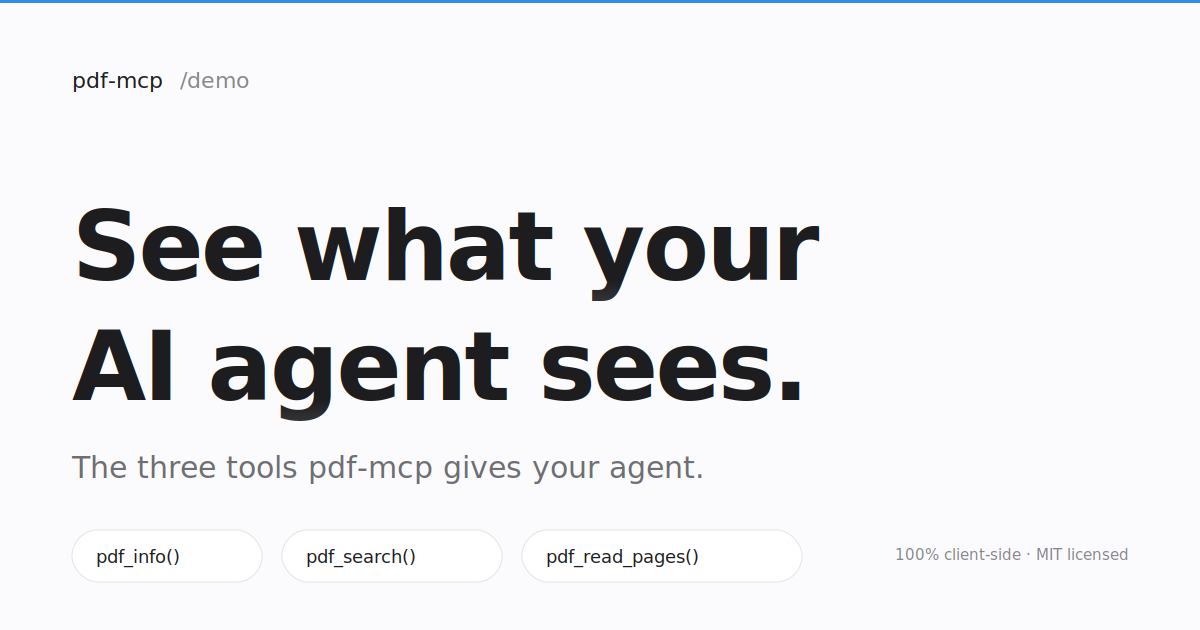
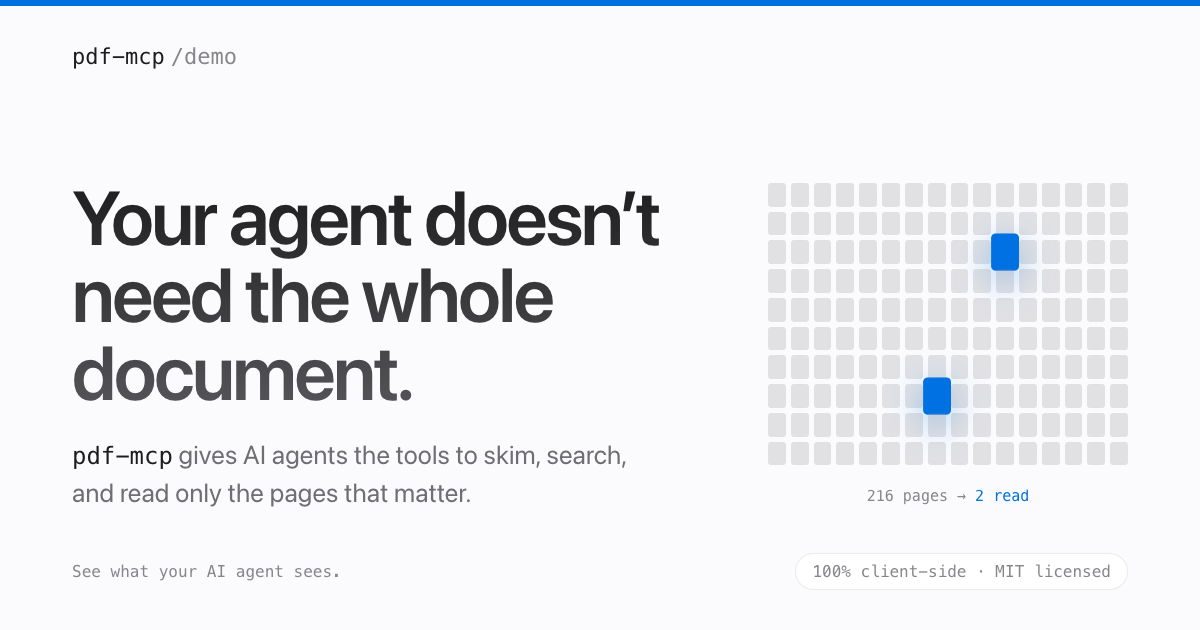
fix(demo): refresh OG share card + titles for new hero; fix mobile grid blow-up
- Regenerate og-image.png and og/twitter titles to match the new
  'Your agent doesn't need the whole document' hero (was the old
  'See what your AI agent sees' / three-tools framing).
- Keep the page grid at 24 compact columns on mobile instead of
  ballooning to 12 oversized columns (~18 rows); tighten gap, read
  actual column count for the sweep stagger, reduce doc-card padding,
  and stack the ask bar so nothing overflows down to 320px.

diff --git a/pages/index.html b/pages/index.html
@@ -12,7 +12,7 @@
 
 <!-- Open Graph (LinkedIn, Facebook, Slack) -->
 <meta property="og:type" content="website" />
-<meta property="og:title" content="pdf-mcp · See what your AI agent sees" />
+<meta property="og:title" content="pdf-mcp · Your agent doesn’t need the whole document" />
 <meta property="og:description" content="Drop in a PDF and watch an AI agent read only the pages that matter. Try it in your browser — no install required, 100% client-side." />
 <meta property="og:url" content="https://pdf-mcp.jztan.com/" />
 <meta property="og:image" content="https://pdf-mcp.jztan.com/og-image.png" />
@@ -22,7 +22,7 @@
 
 <!-- Twitter / X card -->
 <meta name="twitter:card" content="summary_large_image" />
-<meta name="twitter:title" content="pdf-mcp · See what your AI agent sees" />
+<meta name="twitter:title" content="pdf-mcp · Your agent doesn’t need the whole document" />
 <meta name="twitter:description" content="Watch an AI agent read only the pages that matter, in your browser. No install." />
 <meta name="twitter:image" content="https://pdf-mcp.jztan.com/og-image.png" />
 
@@ -181,7 +181,10 @@
   }
 
   .hero-grid { display: grid; grid-template-columns: repeat(24, 1fr); gap: 5px; max-width: 580px; margin: 40px auto 0; }
-  @media (max-width: 640px) { .hero-grid, .lgrid { grid-template-columns: repeat(12, 1fr); } }
+  /* Keep the grid compact on small screens: same 24 columns (so it stays ~9
+     rows, not ~18), just a tighter gap. Fewer columns would balloon the cell
+     size and make the grid dominate the viewport. Cells shrink via 1fr. */
+  @media (max-width: 640px) { .hero-grid, .lgrid { gap: 3px; } }
   .pgcell { aspect-ratio: 3/4; border-radius: 2.5px; background: var(--text-tertiary); opacity: 0.5;
             transition: opacity 0.5s ease, background 0.5s ease, transform 0.5s ease, box-shadow 0.5s ease; }
   .pgcell.dim { opacity: 0.13; }
@@ -572,8 +575,9 @@
     .url-row { flex-direction: column; }
     .btn:not(.btn-icon) { width: 100%; }
     section.workflow { padding: 8px 16px 40px; }
+    .doc-card { padding: 22px 16px; }
     .step-json-toggle { padding: 6px 8px; font-size: 11px; }
-    .read-row { flex-direction: column; }
+    .askbar, .read-row { flex-direction: column; }
     section.install { padding: 36px 20px 24px; }
     .install-title { font-size: 24px; }
     .json-box { font-size: 11px; padding: 12px 14px; }
@@ -779,6 +783,10 @@
 
   const $ = (id) => document.getElementById(id);
   function track(name, params) { try { gtag("event", name, params || {}); } catch (e) {} }
+  // Actual rendered column count of a grid (robust to CSS/breakpoint changes).
+  function gridCols(el) {
+    return getComputedStyle(el).gridTemplateColumns.split(" ").filter(Boolean).length || 24;
+  }
   // Click + keyboard (Enter/Space) activation for role="button" divs.
   function onActivate(el, fn) {
     el.addEventListener("click", fn);
@@ -798,7 +806,7 @@
   const heroCells = [...heroGrid.children];
 
   function heroLoop() {
-    const cols = window.matchMedia("(max-width: 640px)").matches ? 12 : 24;
+    const cols = gridCols(heroGrid);
     heroCells.forEach(c => c.className = "pgcell");
     heroStat.classList.remove("on");
     setTimeout(() => {
@@ -1227,7 +1235,7 @@
 
   function sweepGrid(matchPages) {
     clearSweepTimers();
-    const cols = window.matchMedia("(max-width: 640px)").matches ? 12 : 24;
+    const cols = gridCols($("liveGrid"));
     [...$("liveGrid").children].forEach((c, i) => {
       c.classList.remove("dim", "hit");
       const apply = () => { if (matchPages.has(i + 1)) c.classList.add("hit"); else c.classList.add("dim"); };